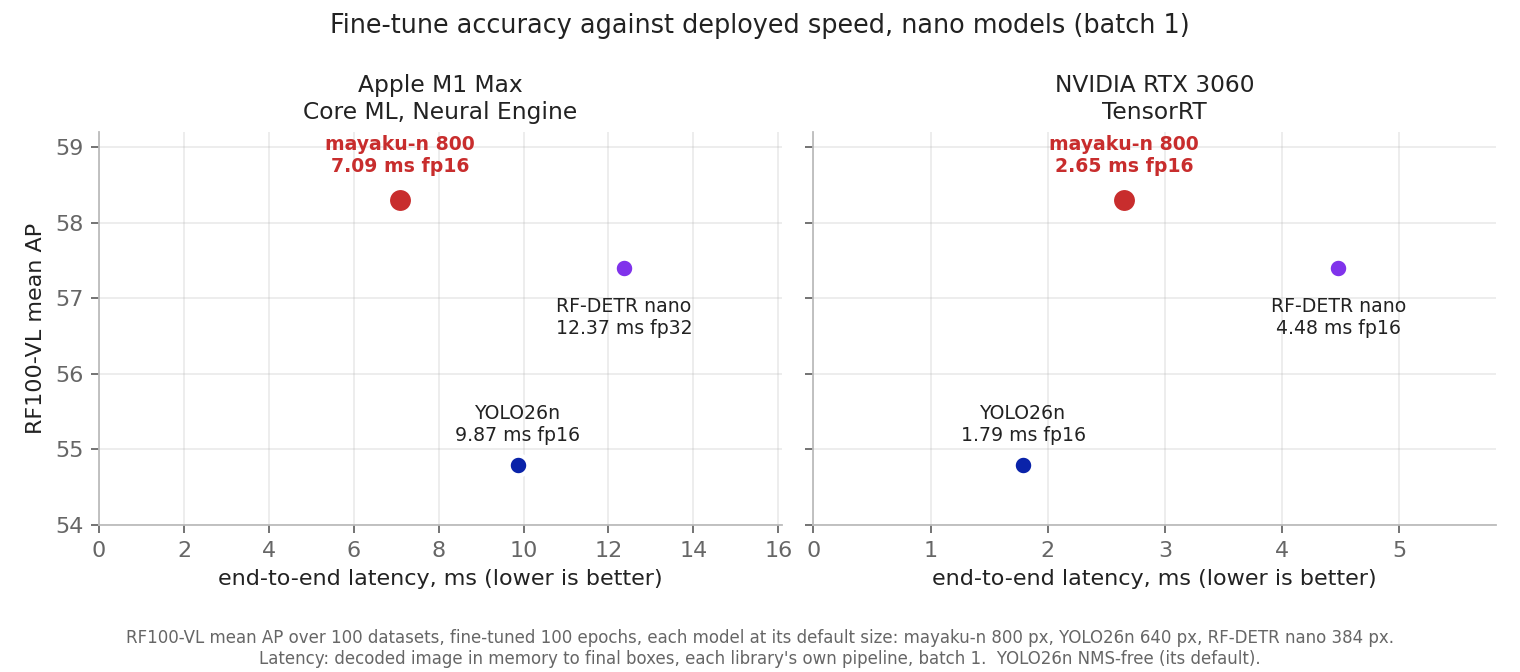
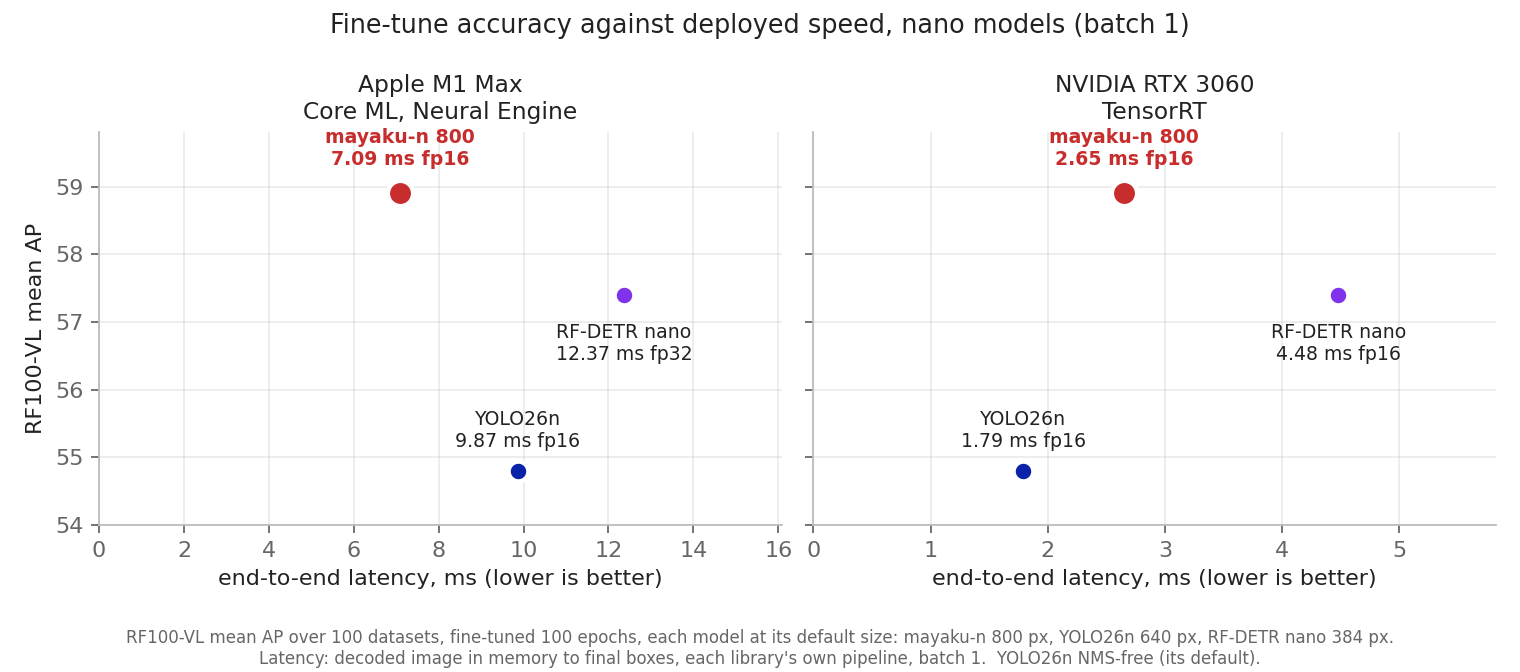
update readme

diff --git a/README.md b/README.md
@@ -12,10 +12,10 @@ Pure PyTorch, no custom CUDA kernels, Apache 2.0. One `pip install` trains on CU
 Silicon or CPU, and every model exports to a graph of just five operations that runs on
 any runtime, including true int8 on NPUs.
 
-![RF100-VL mean AP against end-to-end latency on Apple M1 Max and RTX 3060: mayaku-n at 800 px 58.3 AP, YOLO26n at 640 px 54.8, RF-DETR nano at 384 px 57.4](https://raw.githubusercontent.com/emrahnazif/mayaku/main/assets/rf100_ap_vs_latency.png)
+![RF100-VL mean AP against end-to-end latency on Apple M1 Max and RTX 3060: mayaku-n at 800 px 58.9 AP, YOLO26n at 640 px 54.8, RF-DETR nano at 384 px 57.4](https://raw.githubusercontent.com/emrahnazif/mayaku/main/assets/rf100_ap_vs_latency.png)
 
 - **Highest fine-tune AP at nano size.** Across all 100 datasets of
-  [RF100-VL](https://rf100-vl.org/), mayaku-n averages **58.3 AP**: ahead of RF-DETR nano
+  [RF100-VL](https://rf100-vl.org/), mayaku-n averages **58.9 AP**: ahead of RF-DETR nano
   (57.4, with 6× the parameters), YOLO26s (57.8) and YOLO26n (54.8).
 - **True int8.** The deploy graph uses only convolutions, ReLU, add, max-pool and nearest
   resize, so it quantizes almost end to end: everything except the final output
@@ -75,7 +75,7 @@ checkpoint is scored by the same pycocotools evaluator on each dataset's validat
 
 | Model | Params | Mean AP | AP<sub>S</sub> | AP<sub>M</sub> | AP<sub>L</sub> |
 |---|---:|---:|---:|---:|---:|
-| **mayaku-n** | **5.2M** | **58.3** | **33.5** | **51.4** | 63.9 |
+| **mayaku-n** | **5.2M** | **58.9** | **33.3** | **52.2** | 64.1 |
 | YOLO26s | 9.5M | 57.8 | 32.3 | 50.9 | 63.5 |
 | RF-DETR nano | 30.5M | 57.4 | 29.6 | 49.5 | 65.6 |
 | YOLO26n | 2.4M | 54.8 | 28.3 | 47.7 | 60.8 |
